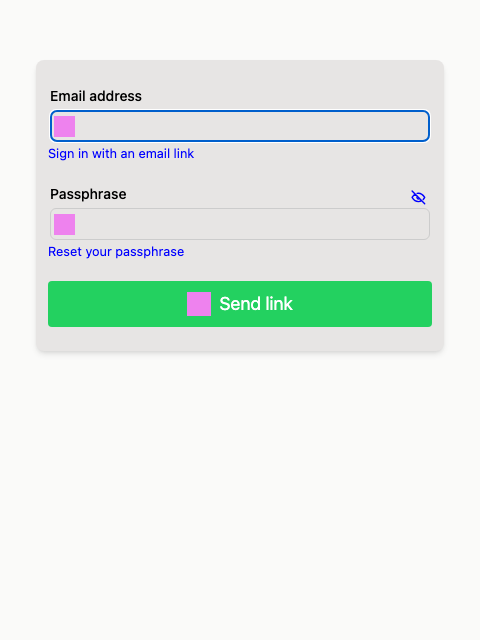
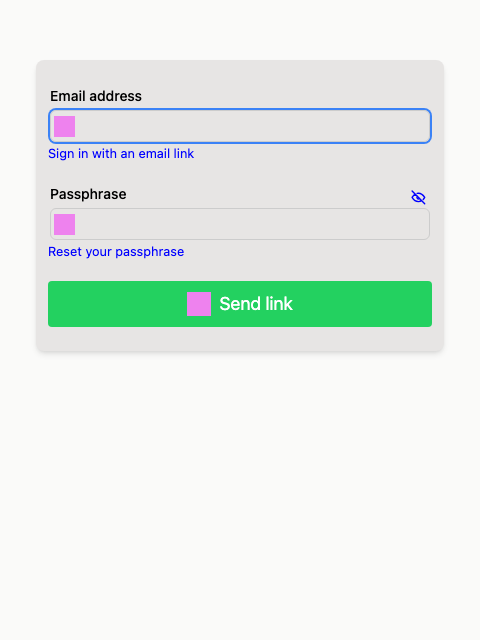
test: update css and fonts for visual regressions

Changed region(s): [[0.0938, 0.1562, 0.9062, 0.25]]

diff --git a/src/app.html b/src/app.html
@@ -4,6 +4,13 @@
 		<meta charset="utf-8" />
 		<link rel="icon" href="%sveltekit.assets%/favicon.png" />
 		<meta name="viewport" content="width=device-width, initial-scale=1" />
+
+		<!-- Preload Noto Sans fonts to prevent FOUS -->
+		<link rel="preconnect" href="https://fonts.googleapis.com">
+		<link rel="preconnect" href="https://fonts.gstatic.com" crossorigin>
+		<link rel="preload" href="https://fonts.googleapis.com/css2?family=Noto+Sans:wght@300;400;500;700&display=swap" as="style" onload="this.onload=null;this.rel='stylesheet'">
+		<noscript><link rel="stylesheet" href="https://fonts.googleapis.com/css2?family=Noto+Sans:wght@300;400;500;700&display=swap"></noscript>
+
 		%sveltekit.head%
 	</head>
 	<body data-sveltekit-preload-data="hover">

diff --git a/src/app.css b/src/app.css
@@ -1,2 +1,24 @@
 @import 'tailwindcss';
 @plugin '@tailwindcss/typography';
+
+@theme {
+  /* Configure consistent fonts for all environments */
+  --font-family-sans: 'Noto Sans', ui-sans-serif, system-ui, sans-serif;
+
+  /* Standardize focus ring appearance */
+  --color-blue-500: #3b82f6;
+
+  /* Override default focus ring styles */
+  --ring-offset-width: 2px;
+  --ring-width: 2px;
+  --ring-color: var(--color-blue-500);
+}
+
+/* Ensure consistent focus styling across all browsers */
+*:focus {
+  @apply ring-2 ring-blue-500 outline-none;
+}
+
+*:focus-visible {
+  @apply ring-2 ring-blue-500 outline-none;
+}

diff --git a/src/test/qp.steps.ts b/src/test/qp.steps.ts
@@ -48,6 +48,7 @@ class World extends PlaywrightWorld {
 
   async init():Promise<void> {
     await super.init()
+
     // set dialog handling
     this.page.on('dialog', dialog => {
       this.dialog = dialog.message()
